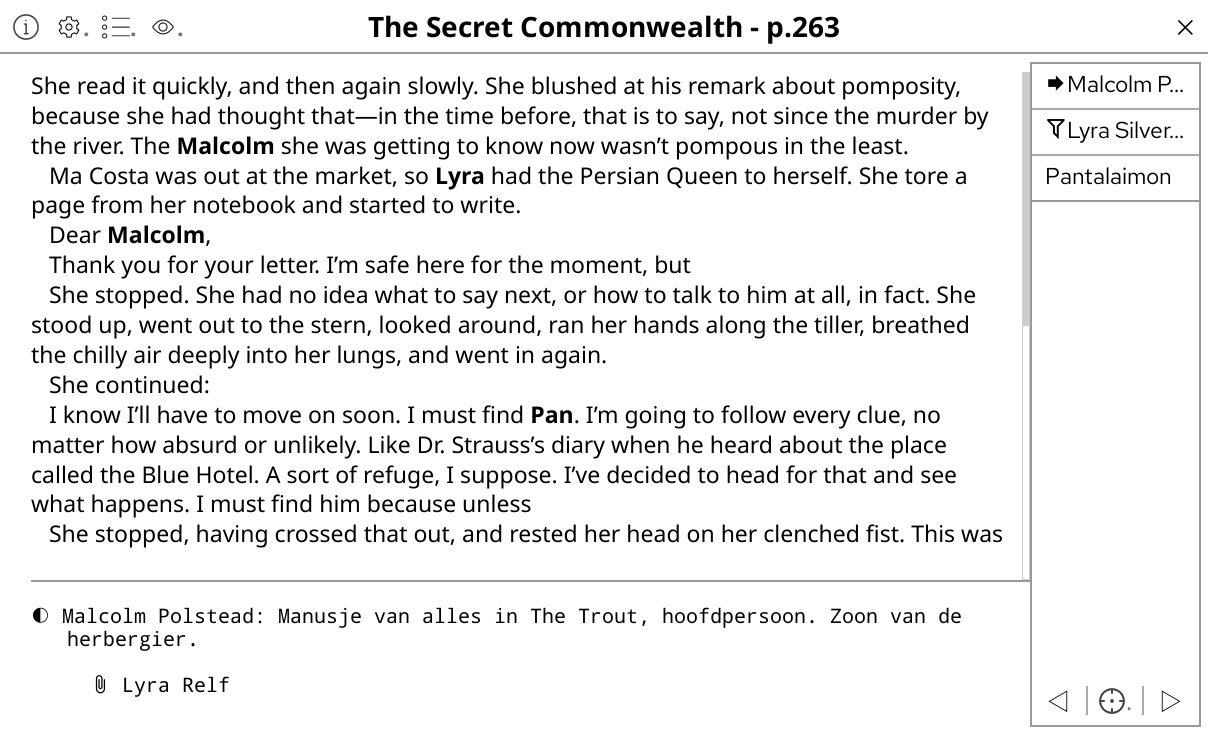
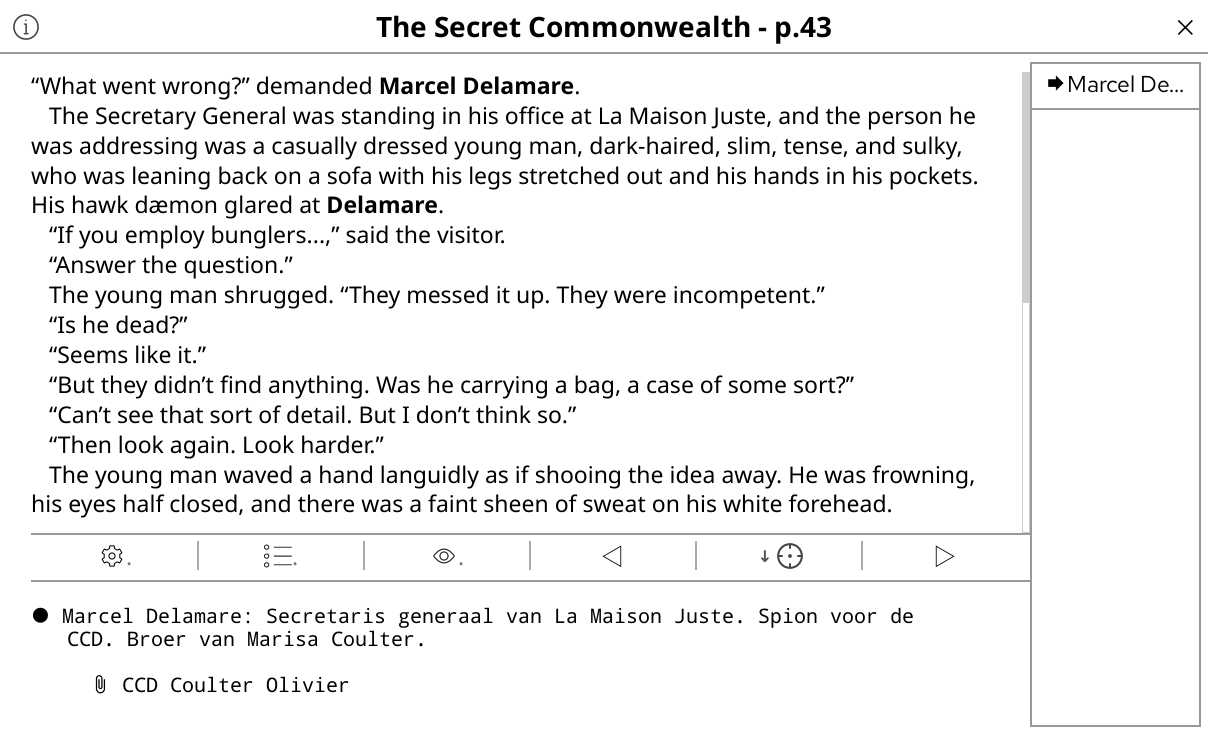
Move Xray Page Navigator action buttons to above the info panel

diff --git a/README.md b/README.md
@@ -194,7 +194,7 @@ PT_bookinfo_cache.sqlite3". In that case:
 * Currently none?
 
 ## Todos
-* Base custom translations on indices instead on the texts they translate → continued usability of translations by the user much better protected, even when the actual text to be translated changes.
+* Base custom translations on indices instead of the texts they translate → continued usability of translations by the user much better protected, even when the actual text to be translated changes.
 
 ## About the code
 
